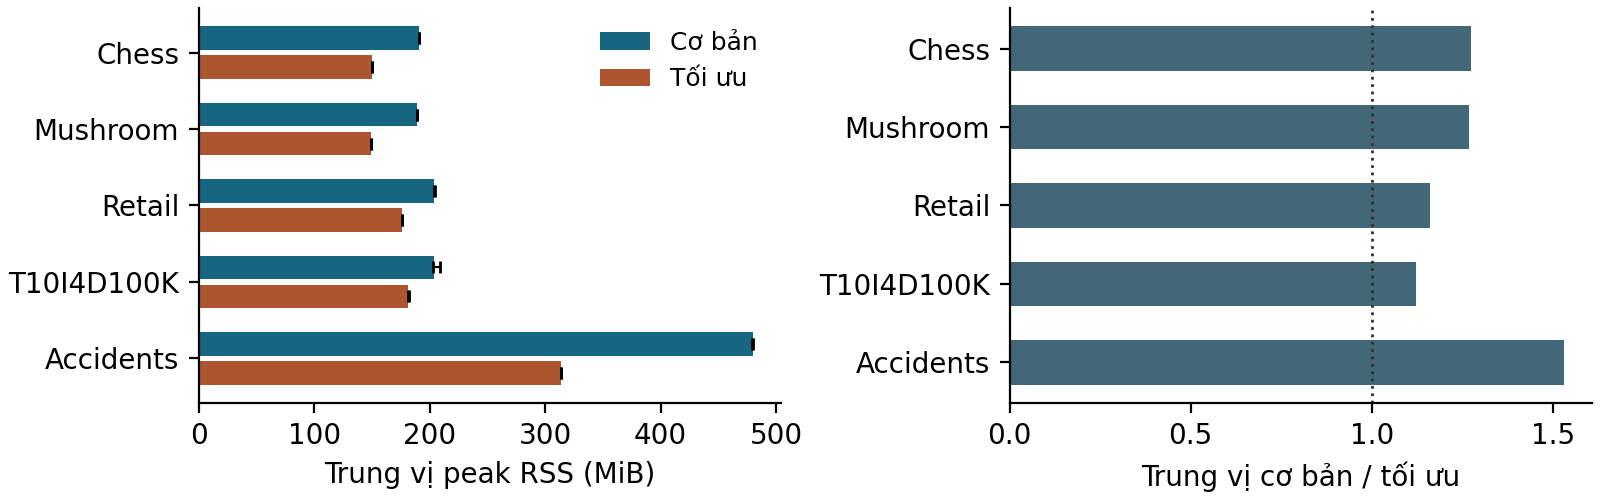
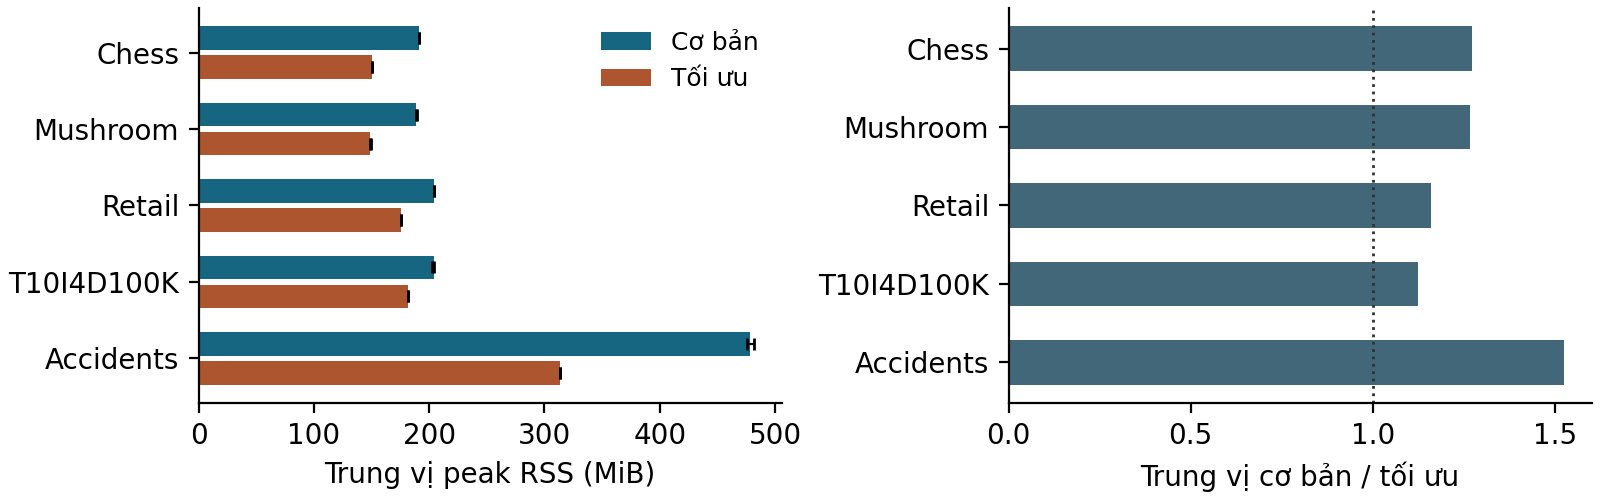
docs: refresh the report after its reproducibility review
DAT-35. Cite the measured revision, report the verified fresh benchmark runs, and document the image artifacts without an off-main hosted revision claim.

diff --git a/docs/report/sections/applications.tex b/docs/report/sections/applications.tex
@@ -302,8 +302,8 @@ phân loại của đặc trưng này, cần học từ điển và khai thác m
 luyện, rồi giữ cố định cả hai khi mã hóa tập kiểm tra. Phân tích ở đây mô tả
 tần suất trên Semeion.
 
-Nhóm kiểm tra khả năng tái lập bằng phiên CPU mới trên Google Colab. Bản
-notebook ở revision \texttt{426edb2} chạy 13 ô mã bằng Julia 1.13.2 với seed
-42. Mã băm của từ điển mặc định và của cả ba tệp đầu ra ở minsup 20\%,
-10\% và 5\% khớp với kết quả lưu trữ. Lần chạy này xác nhận pipeline mặc
-định, còn Bảng~\ref{tab:semeion-sensitivity} ghi loạt khảo sát ở 15 cấu hình.
+\href{https://github.com/NgTHung/Itemset/blob/main/notebooks/demo.ipynb}
+{Notebook của repository} dùng Julia 1.13.2 và seed 42 để tái lập pipeline
+mặc định. Manifest của lượt chạy ghi revision, seed và mã băm của từ điển
+cùng đầu ra tại minsup 20\%, 10\% và 5\%. Lưới trong
+Bảng~\ref{tab:semeion-sensitivity} dùng cùng bộ mã hóa ở 15 cấu hình.
